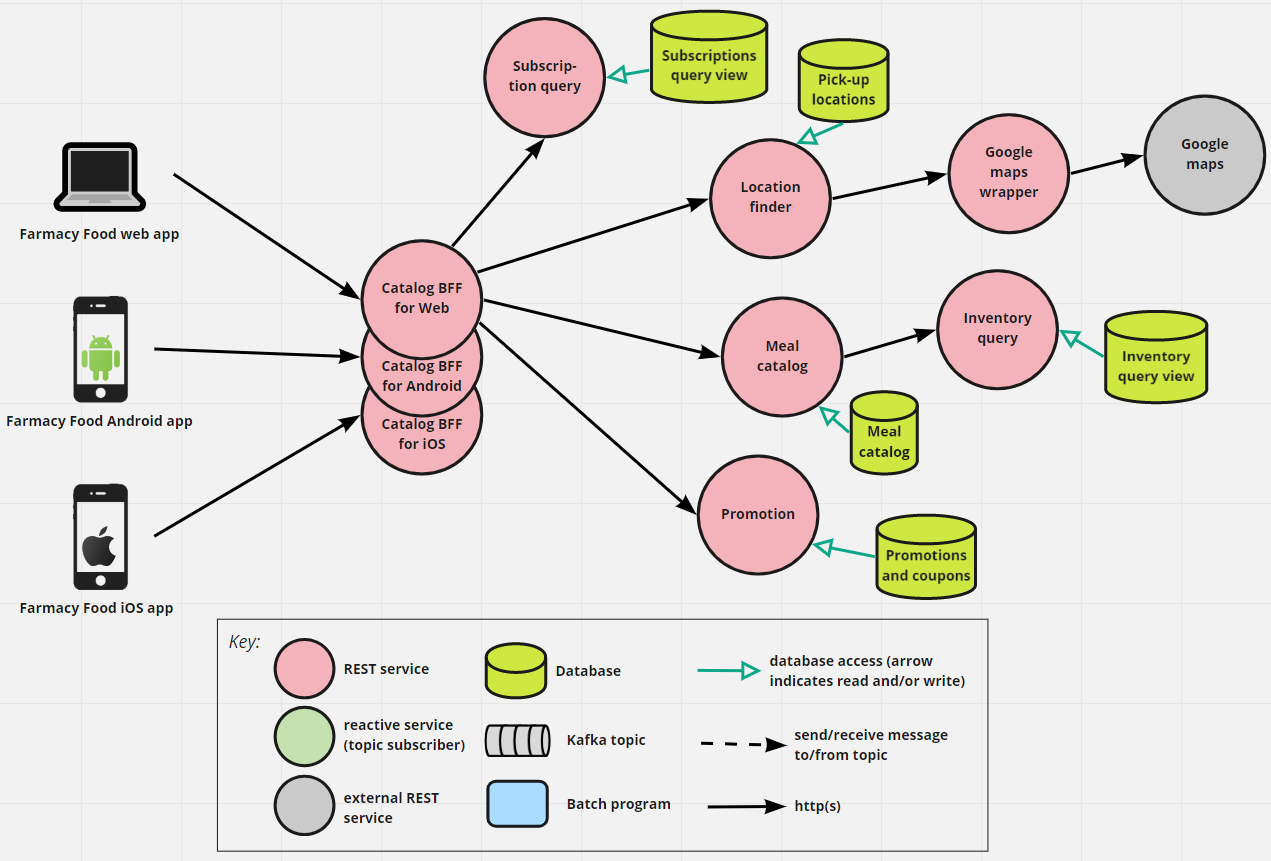
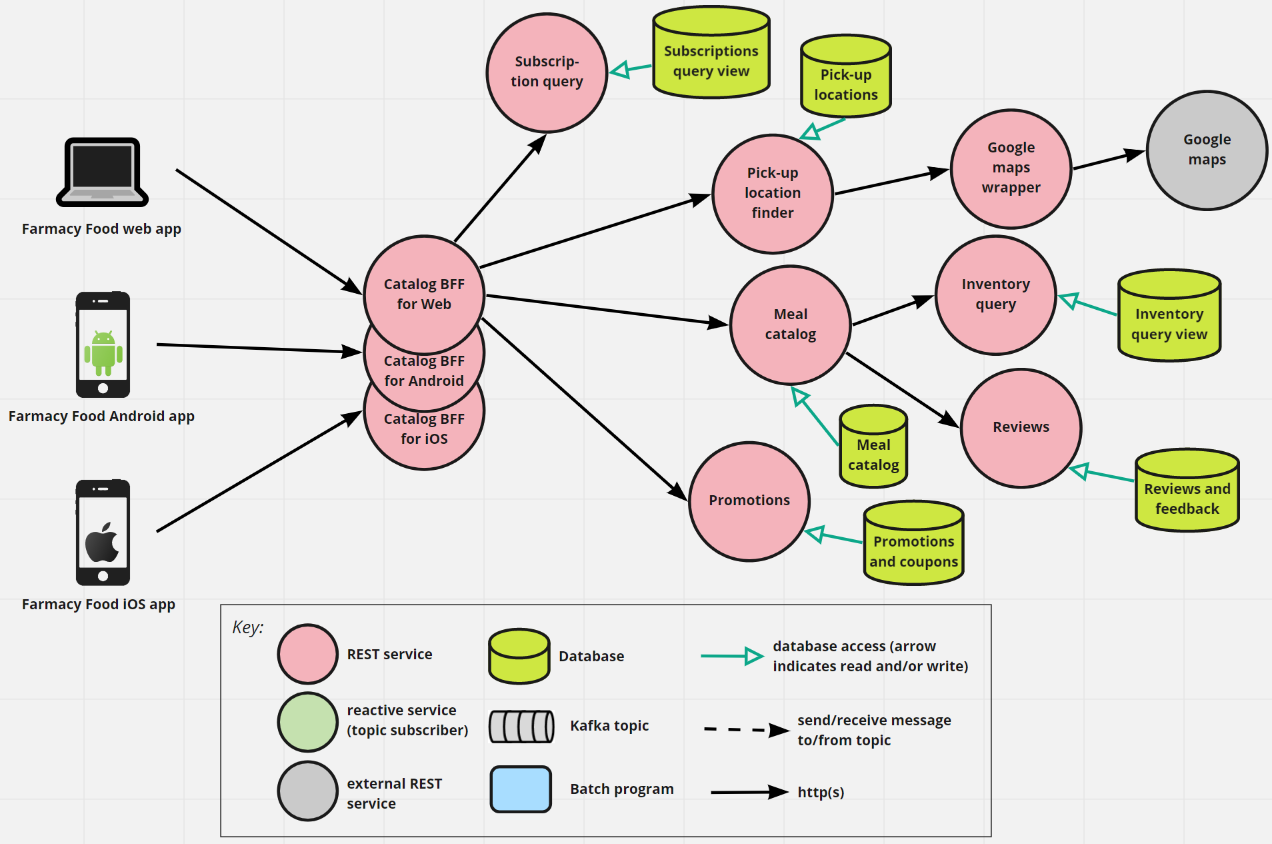
complementing element catalog for customer app views

diff --git a/architecture/order-runtime-view.md b/architecture/order-runtime-view.md
@@ -18,16 +18,35 @@ processing an order. Key patterns used:
 ## Element Catalog 
 
 #### Checkout
-- TO-DO
+- Handles the requests from the frontend apps relative to the different steps the customer goes through when they
+click checkout. 
+- It allows the user to apply a coupon, in which case the service interacts with the `Promotions` service to validate the
+coupon and recalculate the cost based on the discount. 
+- When processing the final submit for the meal order, `Checkout` calls `Inventory query` for validating the order against 
+  meal availability in the selected pick-up location (if one was chosen). If everything is OK, a domain event "Purchase Order Created" 
+  is published. 
+- The purchase order is processed asynchronouly, as described in the [sequence diagram](#behavior) further down. 
 
 #### Payment
-- TO-DO
+- Will process the payment for a submitted purchase order. 
+- Uses a third-party payment gateway. To avoid coupling the logic to one specific payment gateway provider, the interaction
+is through a wrapper service. 
+- If the payment is sucessful, `Payment` publishes a Order Payment Confirmed event containing all order details and
+payment status.  
 
-#### Payment wrapper
-- TO-DO
+#### Payflow wrapper
+- Payflow is the payment gateway service for PayPal. We used it as a (likely) example of payment gateway. 
 
 #### Payflow by PayPal
-- TO-DO
+- External payment gateway service that offers a public API to merchant partners. 
+
+#### Customer notification
+- Reponsible for sending out notifications to the customers via one or more mechanisms: 
+    - email
+    - app push notification
+    - SMS  
+    - WhatsApp
+- It subscribes to various events and puts together the corresponding personalized messages according to pre-defined templates.  
 
 #### Order command
 - Has basic operations for creating or modifying an order.
@@ -35,6 +54,11 @@ processing an order. Key patterns used:
     - by *Order processing* when a meal order is placed.  
     - by *Order BFF* when the customer updates or cancels an order.   
 - It uses the CQRS pattern. 
+
+#### Reviews
+- Has endpoints to allow the customer to rate meals, add reviews, or give non-public feedback for verified purchases
+- Has also endpoints for querying and searching reviews and ratings. These endpoints are used when looking at a meal item 
+from the [catalog](catalog-runtime-view.md).  
 
 
 ## Behavior
@@ -52,5 +76,5 @@ UML objects.
 - [BFF pattern](../ADRs/ADR002-bff-pattern.md)
 
 ## Related Views
-- TO-DO: link to catalog view 
-- TO-DO: link to order view 
+- [Customer Account - microservice view](user-account-mgmt-runtime-view.md)
+- [Catalog - microservice view](catalog-runtime-view.md)

diff --git a/architecture/user-account-mgmt-runtime-view.md b/architecture/user-account-mgmt-runtime-view.md
@@ -15,7 +15,7 @@ This is a microservice architecture. Key patterns used:
 - Web application created using a SPA JS framework, such as Vue, React, or Ember.
 
 #### User BFF for Web, for Android, for iOS
-- central access point for calls coming from the frontend apps.
+- Central access point for calls coming from the frontend apps.
 - These are the 3 types of frontend we added BFFs for in the design. However, other types of frontends/clients like the
 ones listed below can be added by specifying new BFFs for them:
     - a chatbot client that interacts via SMS, Tweeter, WhatsApp. 
@@ -31,7 +31,7 @@ Facebook account.
 - The interaction with Auth0 is similar to what you see [in this diagram](https://www.getambassador.io/docs/latest/topics/using/filters/oauth2/#the-ambassador-authentication-flow), except that the BFF plays the role of the *Ambassador Edge Stack*.
 
 #### eDietician
-- "expert system" that will provide personalized meal recommendations based on different criteria:
+- "Expert system" that will provide personalized meal recommendations based on different criteria:
     - customer's dietary restrictions and health information
     - customer's purchase history
     - meal ratings
@@ -49,5 +49,5 @@ Facebook account.
 - [CQRS pattern](../ADRs/ADR004-cqrs-pattern.md)
 
 ## Related Views
-- TO-DO: link to catalog view 
-- TO-DO: link to order view 
+- [Catalog - microservice view](catalog-runtime-view.md)
+- [Order - microservice and EDA view](order-runtime-view.md)

diff --git a/architecture/catalog-runtime-view.md b/architecture/catalog-runtime-view.md
@@ -37,4 +37,5 @@ used for retrieving plotted maps with pick-up locations.
 
 ## Related Views
 - [Customer Account - microservice view](user-account-mgmt-runtime-view.md)
-- TO-DO: link to order view 
+- [Order - microservice and EDA view](order-runtime-view.md)
+ 
